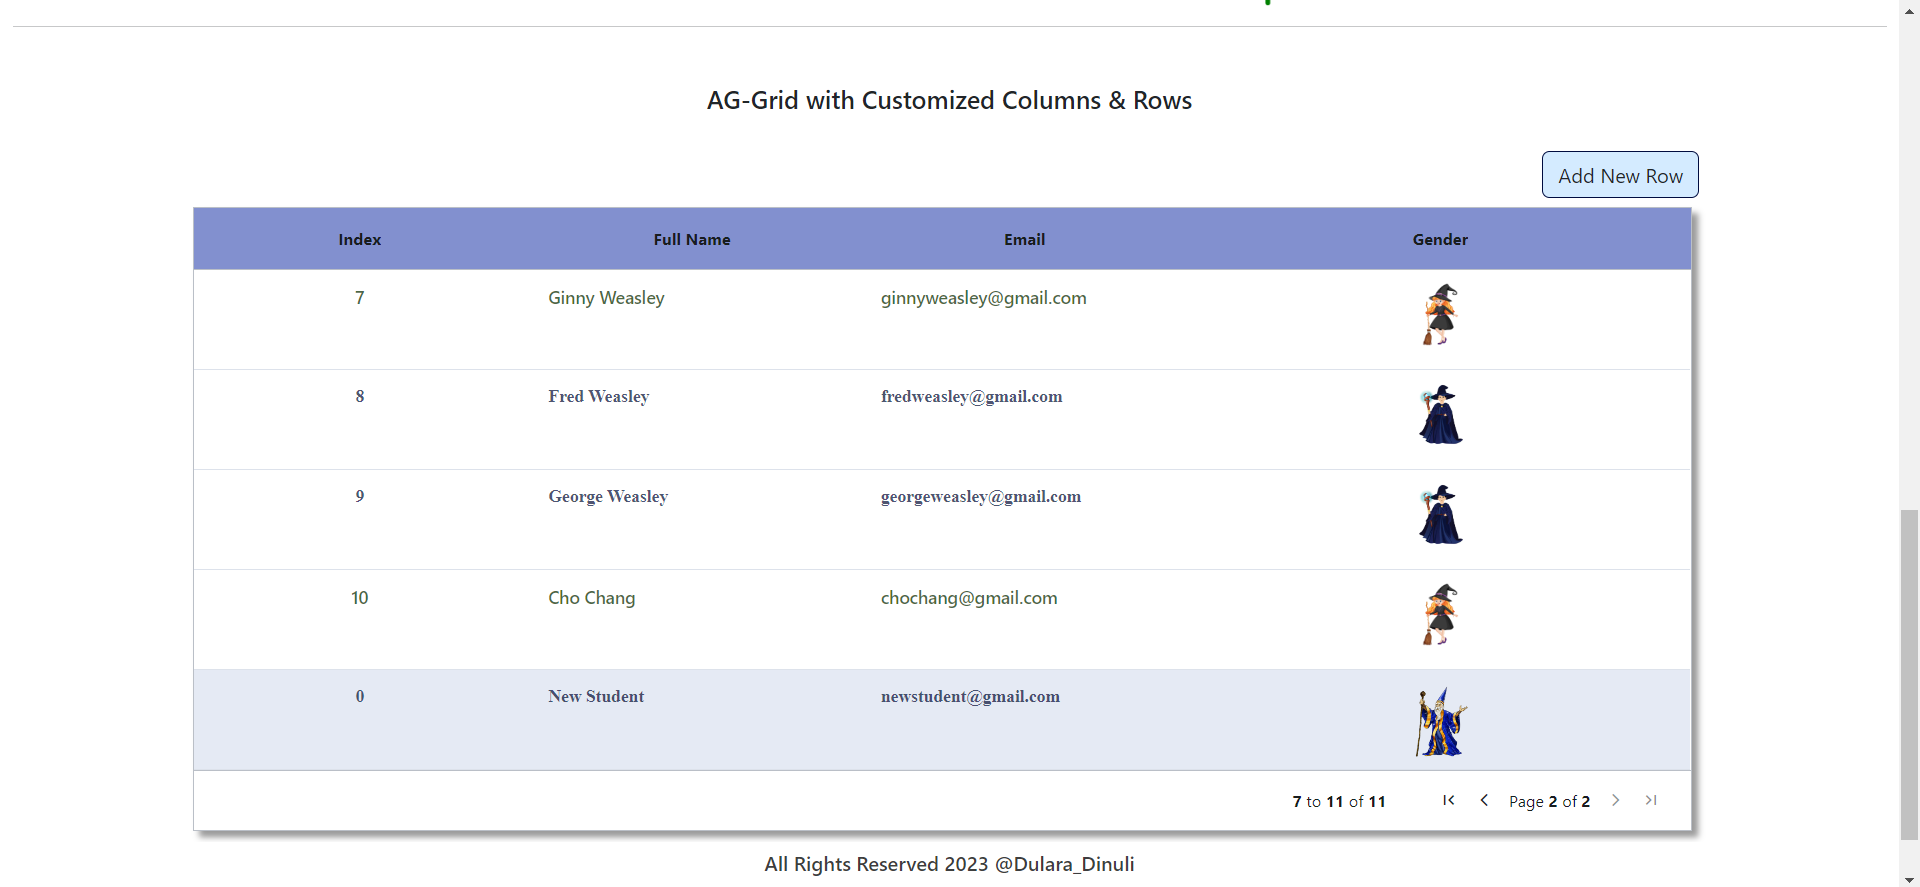
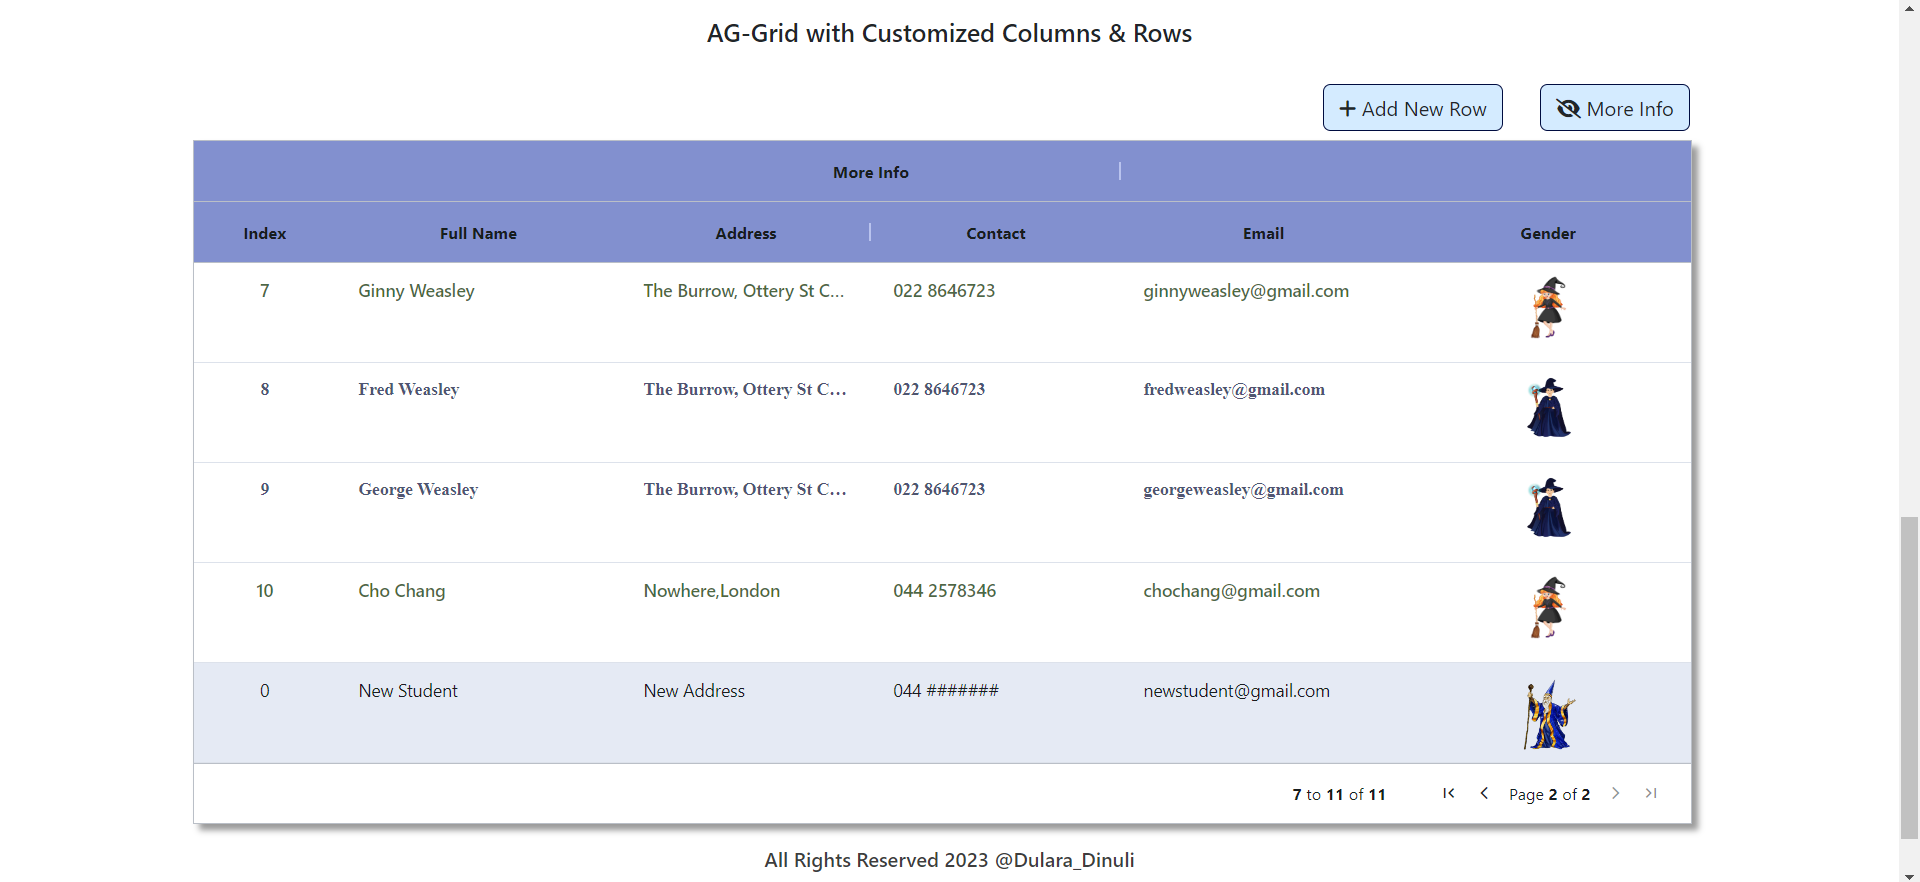
Update

diff --git a/src/app/customized-cr-ag-grid/customized-cr-ag-grid.component.ts b/src/app/customized-cr-ag-grid/customized-cr-ag-grid.component.ts
@@ -1,7 +1,7 @@
 import { Component, OnInit } from '@angular/core';
 import { HttpClient } from '@angular/common/http';
 import { AgGridAngular } from 'ag-grid-angular';
-import { GridApi,GridReadyEvent, RowClassParams, RowStyle, ValueGetterParams} from 'ag-grid-community';
+import { ColDef, ColGroupDef, GridApi,GridReadyEvent, RowClassParams, RowStyle, ValueGetterParams} from 'ag-grid-community';
 import { CharacterPhotoComponent } from '../character-photo/character-photo.component';
 
 @Component({
@@ -11,14 +11,21 @@ import { CharacterPhotoComponent } from '../character-photo/character-photo.comp
 })
 export class CustomizedCRAGGridComponent {
 
+  public isColumnVisible = false;
+
   // Defining columns using AG Grid
-  public columnDefs = [
-    {headerName: 'Index', field: 'studentId', cellStyle: {textAlign: 'center'}, flex:2},
+  public columnDefs: (ColDef | ColGroupDef)[] = [
+    {headerName: 'Index', field: 'studentId', cellStyle: {textAlign: 'center'}, flex:1},
     {headerName: 'Full Name', valueGetter: concatName, flex:2},
+    {headerName: 'More Info', field: 'moreInfo', flex:3, suppressSizeToFit: true, 
+      children: [
+        {headerName: 'Address', field: 'address', resizable: true,  hide: !this.isColumnVisible},
+        {headerName: 'Contact', field: 'contactNo', hide: !this.isColumnVisible},
+      ]},
     {headerName: 'Email', field: 'email', flex:2},
-    {headerName: 'Title', field: 'title', flex:2, hide:true},
+    {headerName: 'Title', field: 'title', flex:2, hide: !this.isColumnVisible},
     {headerName: 'Gender', field: 'gender', cellRenderer: CharacterPhotoComponent, 
-    cellRendererParams: { data: this }, cellStyle: {textAlign: 'center'}, flex:3
+    cellRendererParams: { data: this }, cellStyle: {textAlign: 'center'}, flex:2
   }  // Rendering More-Info drop down list
   ];
 
@@ -51,9 +58,32 @@ export class CustomizedCRAGGridComponent {
   }
 
   addNewRow() {
-    const newRowData = { studentId: 0, firstName: 'New', lastName: 'Student', email: 'newstudent@gmail.com', title: 'Mr' };
+    const newRowData = { studentId: 0, firstName: 'New', lastName: 'Student', email: 'newstudent@gmail.com', title: 'Mr/ Miss', address: 'New Address', contactNo: '044 #######' };
     this.rowData.push(newRowData);
     this.gridApi.setRowData(this.rowData);
+  }
+
+  toggleColumnVisibility() {
+    this.isColumnVisible = !this.isColumnVisible;
+    const columnDefs = this.gridApi.getColumnDefs();
+    if(columnDefs){
+    const updatedColumnDefs = columnDefs.map((colDef: any) => {
+      if (colDef.field === 'moreInfo') {
+        if (colDef.children[0].field === 'address' && colDef.children[1].field === 'contactNo') {
+          colDef.children[0].hide = !this.isColumnVisible;
+          colDef.children[1].hide = !this.isColumnVisible;
+          if(this.isColumnVisible == true){
+            document.getElementById('icon')!.innerHTML = '<i class="fa-solid fa-eye-slash"></i>';
+          }
+          else if(this.isColumnVisible == false){
+            document.getElementById('icon')!.innerHTML = '<i class="fa-solid fa-eye"></i>';
+          } 
+        }
+      }
+      return colDef;
+    });
+    this.gridApi.setColumnDefs(updatedColumnDefs);
+    }
   }
 
 }

diff --git a/src/app/customized-cr-ag-grid/customized-cr-ag-grid.component.css b/src/app/customized-cr-ag-grid/customized-cr-ag-grid.component.css
@@ -7,6 +7,9 @@
     --ag-odd-row-background-color: #ffffff;
     --ag-header-background-color: rgba(62, 84, 181, 0.648);
     --ag-row-hover-color: rgba(154, 171, 211, 0.255);
+    /* --ag-header-column-separator-display:border;
+    --ag-header-column-separator-color: rgba(191, 203, 255, 0.23);  */
+    --ag-header-column-resize-handle-color: rgba(215, 222, 255, 0.648);
 }
 
 h5{
@@ -25,13 +28,17 @@ h5{
     background-color: rgb(212, 235, 255);
     position: relative;
     float: right;
-    margin-right:10%;
+    margin-right:10.5%;
 }
     
 .btn:hover{
     background-color:rgba(62, 84, 181, 0.859);
     color: rgb(255, 255, 255);
     border: none;
+}
+
+.addRow{
+    margin-right:2%;    
 }
 
 ::ng-deep .ag-header-group-cell-label {

diff --git a/src/app/customized-cr-ag-grid/customized-cr-ag-grid.component.html b/src/app/customized-cr-ag-grid/customized-cr-ag-grid.component.html
@@ -1,6 +1,8 @@
 <h5>AG-Grid with Customized Columns & Rows</h5>
 
-<button class="btn addRow" (click)="addNewRow()">Add New Row</button>
+<button class="btn addcolumn" (click)="toggleColumnVisibility()"><span id="icon"><i class="fa-solid fa-eye"></i></span> More Info</button>
+
+<button class="btn addRow" (click)="addNewRow()"><i class="fa-solid fa-plus"></i> Add New Row</button>
 
 <!-- Create AG Grid Table -->
     <ag-grid-angular
